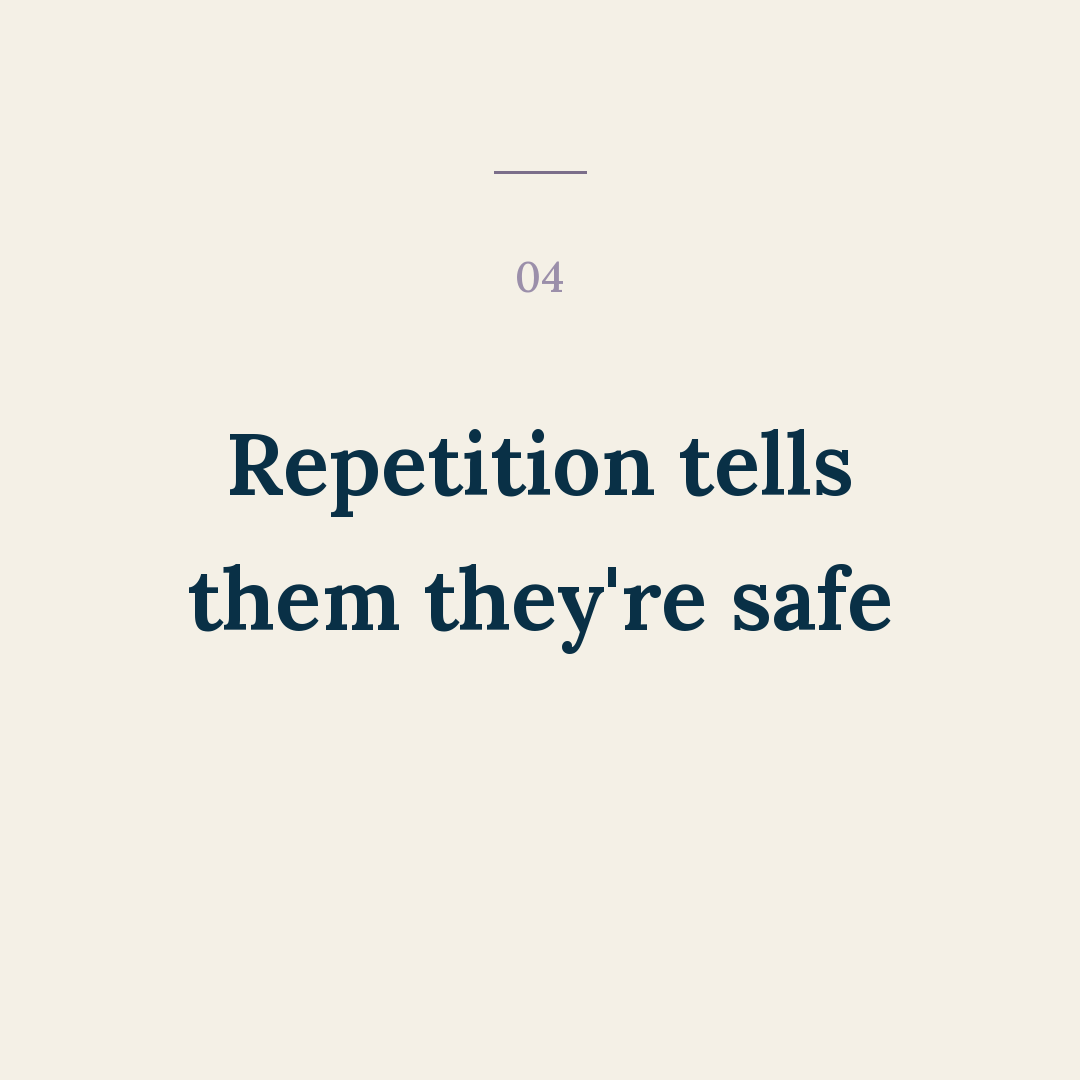
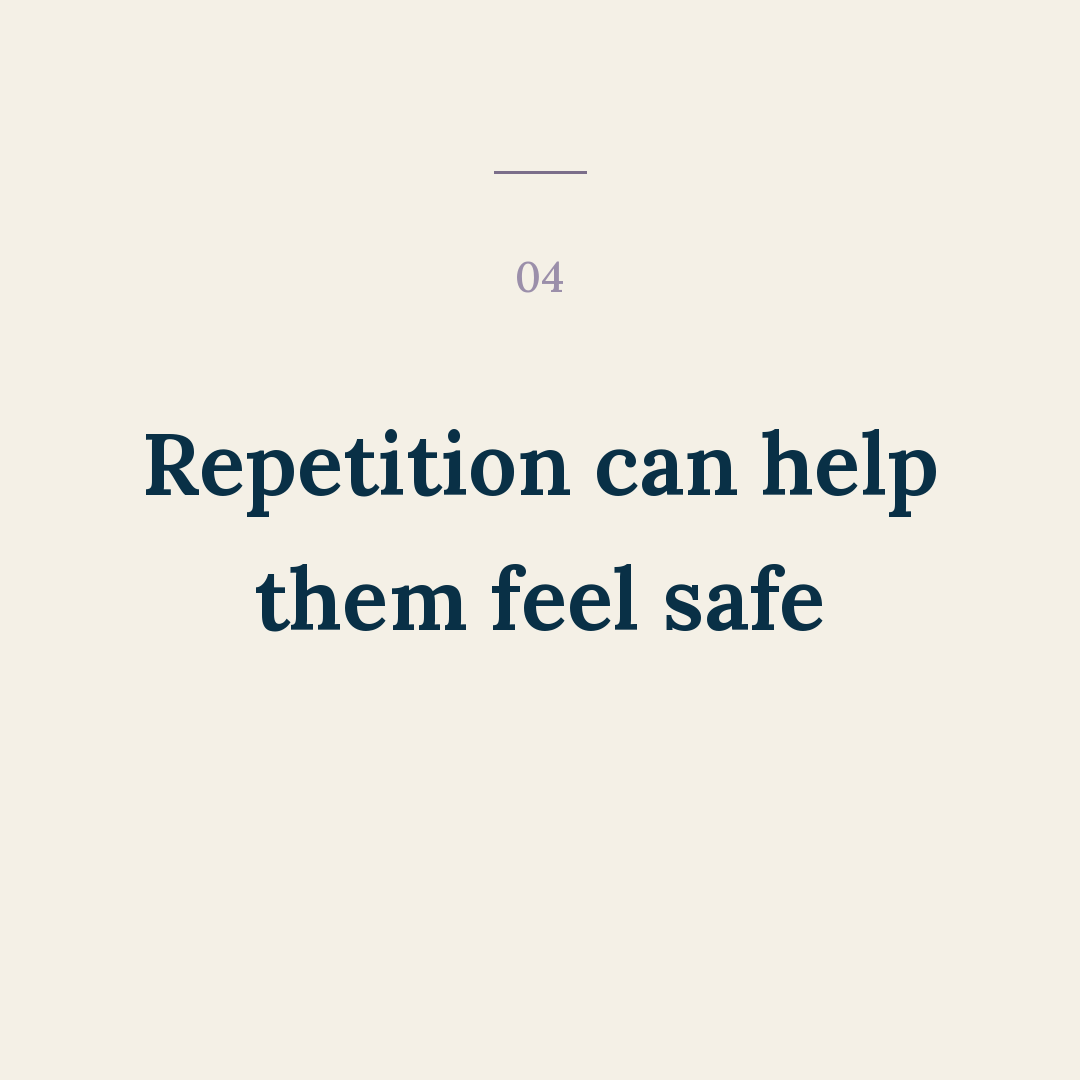
Add 04-familiar-lullaby-heart-rate (04 - Familiar Lullaby Heart Rate)

Changed region(s): [[0.1222, 0.3972, 0.8861, 0.4889], [0.1833, 0.5194, 0.825, 0.6111]]

diff --git a/posts/04-familiar-lullaby-heart-rate/slides.md b/posts/04-familiar-lullaby-heart-rate/slides.md
@@ -3,16 +3,16 @@
 Format: carousel · bg cream
 
 ## Cover
-What a familiar lullaby does to your newborn's heart rate:
+What a familiar lullaby may do for your newborn's heart rate:
 
 ## Items
-01  A known song slows a racing heartbeat
-02  Familiar melody lowers stress hormones
-03  Their breathing falls into the rhythm
-04  Repetition tells them they're safe
-05  Your voice does it better than any track
+01  A known song may help slow a racing heartbeat
+02  A familiar melody can ease stress
+03  Their breathing often falls into the rhythm
+04  Repetition can help them feel safe
+05  Your voice may do it better than any track
 
 ## Closer (website)
 There's comfort in the familiar.
 
-Rendered slide-1..slide-7 (weight 650).
+Rendered slide-1..slide-7 (weight 650). Claims softened with can/may (no absolute physiological assertions).
